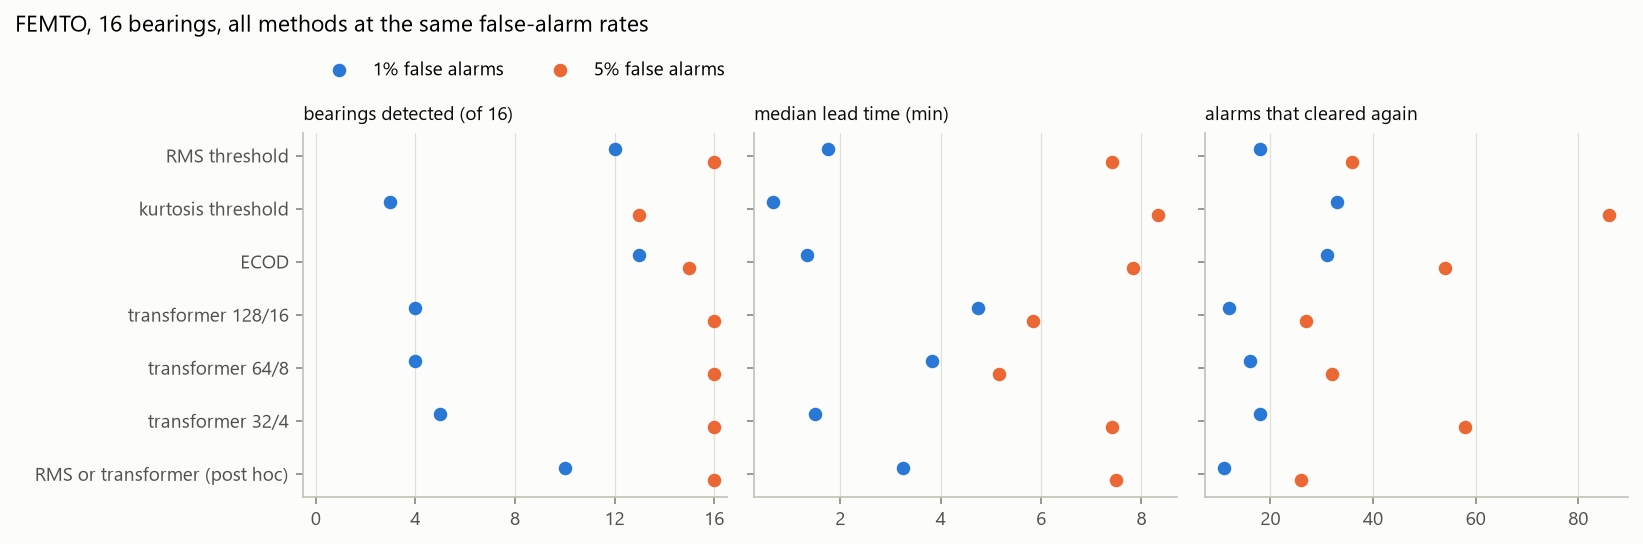
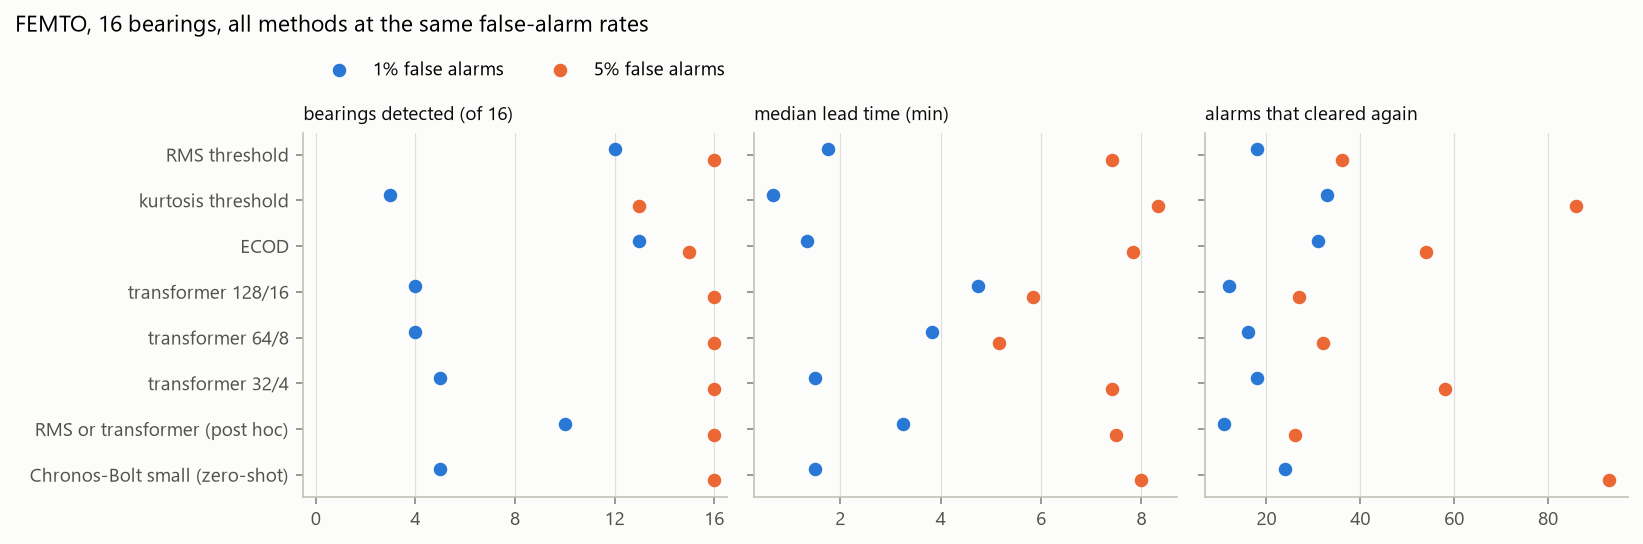
Compare with a zero-shot Chronos-Bolt forecaster
Same protocol, no training on bearings; it behaves much like the small transformer, with more alarms that clear again.

diff --git a/src/bearing_attention/forecaster.py b/src/bearing_attention/forecaster.py
@@ -16,7 +16,61 @@ def windows(series, length):
     return np.lib.stride_tricks.sliding_window_view(series, length, axis=0).transpose(0, 2, 1)
 
 
-class ForecastDetector:
+class ErrorScore:
+    """Turns forecasts into a per-snapshot anomaly score. Subclasses provide
+    `forecast(z)`, `window`, `horizon`, `feature_names` and `channel_scale`."""
+
+    def score(self, z, stop=None):
+        """Log of the mean normalized squared error of every snapshot over all forecasts
+        that predicted it. Uses only earlier snapshots, so it can run online; NaN until
+        the first full window.
+
+        The errors span several orders of magnitude (a transient can be a thousand
+        times the typical error), so the log is taken; alarms only depend on the order
+        of the scores, but on this scale the evaluation's clip never reaches a threshold.
+        """
+        z = z[:stop]
+        n = len(z)
+        scores = np.full(n, np.nan)
+        if n <= self.window:
+            return scores
+        forecasts = self.forecast(z)
+        total, count = np.zeros(n), np.zeros(n)
+        for h in range(self.horizon):
+            t = np.arange(self.window + h, n)
+            error = ((forecasts[: len(t), h] - z[t]) ** 2 / self.channel_scale).mean(axis=1)
+            np.add.at(total, t, error)
+            np.add.at(count, t, 1)
+        seen = count > 0
+        scores[seen] = np.log(total[seen] / count[seen])
+        return scores
+
+    def for_features(self, feature_names):
+        """The same model for another sensor layout (e.g. one accelerometer instead of
+        two). Nothing is refitted: each channel keeps the healthy error scale learned
+        for its feature, averaged over the training axes."""
+        by_feature = {}
+        for name, scale in zip(self.feature_names, self.channel_scale):
+            by_feature.setdefault(name.split("_", 1)[1], []).append(scale)
+        adapted = copy.copy(self)
+        adapted.feature_names = list(feature_names)
+        adapted.channel_scale = np.array([np.mean(by_feature[n.split("_", 1)[1]]) for n in feature_names])
+        return adapted
+
+    def healthy_channel_scale(self, healthy):
+        """Median squared forecast error of every channel over the healthy windows."""
+        errors = []
+        for h in healthy:
+            rows = len(h) - self.window - self.horizon + 1
+            if rows <= 0:
+                continue
+            forecasts = self.forecast(h)
+            targets = windows(h[self.window:], self.horizon)[:rows]
+            errors.append(((forecasts[:rows] - targets) ** 2).reshape(-1, h.shape[1]))
+        return np.median(np.concatenate(errors), axis=0) + 1e-6
+
+
+class ForecastDetector(ErrorScore):
     def __init__(self, name, variant, model_cfg):
         self.name = name
         self.variant = dict(variant)
@@ -78,43 +132,6 @@ class ForecastDetector:
         if not return_attention:
             return torch.cat(outputs).numpy()
         return torch.cat([f for f, _ in outputs]).numpy(), torch.cat([a for _, a in outputs]).numpy()
-
-    def score(self, z, stop=None):
-        """Log of the mean normalized squared error of every snapshot over all forecasts
-        that predicted it. Uses only earlier snapshots, so it can run online; NaN until
-        the first full window.
-
-        The errors span several orders of magnitude (a transient can be a thousand
-        times the typical error), so the log is taken; alarms only depend on the order
-        of the scores, but on this scale the evaluation's clip never reaches a threshold.
-        """
-        z = z[:stop]
-        n = len(z)
-        scores = np.full(n, np.nan)
-        if n <= self.window:
-            return scores
-        forecasts = self.forecast(z)
-        total, count = np.zeros(n), np.zeros(n)
-        for h in range(self.horizon):
-            t = np.arange(self.window + h, n)
-            error = ((forecasts[: len(t), h] - z[t]) ** 2 / self.channel_scale).mean(axis=1)
-            np.add.at(total, t, error)
-            np.add.at(count, t, 1)
-        seen = count > 0
-        scores[seen] = np.log(total[seen] / count[seen])
-        return scores
-
-    def for_features(self, feature_names):
-        """The same model for another sensor layout (e.g. one accelerometer instead of
-        two). Nothing is refitted: each channel keeps the healthy error scale learned
-        for its feature, averaged over the training axes."""
-        by_feature = {}
-        for name, scale in zip(self.feature_names, self.channel_scale):
-            by_feature.setdefault(name.split("_", 1)[1], []).append(scale)
-        adapted = copy.copy(self)
-        adapted.feature_names = list(feature_names)
-        adapted.channel_scale = np.array([np.mean(by_feature[n.split("_", 1)[1]]) for n in feature_names])
-        return adapted
 
     def save(self, path):
         path.parent.mkdir(parents=True, exist_ok=True)

diff --git a/src/bearing_attention/chronos_detector.py b/src/bearing_attention/chronos_detector.py
@@ -1,0 +1,57 @@
+"""Zero-shot comparison: Chronos-Bolt forecasting the same feature series.
+
+Chronos-Bolt (Amazon, chronos-forecasting package, Apache-2.0) is pretrained on a
+large collection of public time series and is used here without any training on
+bearings. Only the typical healthy error of each feature is measured, exactly as
+for the transformer, and the score is built the same way.
+"""
+import hashlib
+
+import numpy as np
+import torch
+
+from bearing_attention.forecaster import ErrorScore, windows
+
+_PIPELINES = {}
+# Forecasts do not depend on the fold, so each record is forecast once and reused
+# by every fit and score of the cross-validation.
+_FORECASTS = {}
+MEDIAN = 4  # index of the 0.5 quantile among Chronos-Bolt's 0.1 ... 0.9 outputs
+
+
+def load_pipeline(model_id):
+    if model_id not in _PIPELINES:
+        from chronos import BaseChronosPipeline
+
+        _PIPELINES[model_id] = BaseChronosPipeline.from_pretrained(
+            model_id, device_map="cpu", torch_dtype=torch.float32)
+    return _PIPELINES[model_id]
+
+
+class ChronosDetector(ErrorScore):
+    def __init__(self, name, window, horizon, model_id, batch_size=1024, pipeline=None):
+        self.name = name
+        self.window, self.horizon = window, horizon
+        self.model_id = model_id
+        self.batch_size = batch_size
+        self.pipeline = pipeline
+
+    def fit(self, healthy, feature_names):
+        self.feature_names = list(feature_names)
+        self.channel_scale = self.healthy_channel_scale(healthy)
+        return self
+
+    def forecast(self, z, return_attention=False):
+        """Median forecasts from every full window of z, in the layout of ForecastDetector.forecast."""
+        z = np.ascontiguousarray(z, dtype=np.float32)
+        key = (self.model_id, self.window, self.horizon, hashlib.sha1(z.tobytes()).hexdigest(), z.shape)
+        if key not in _FORECASTS:
+            pipeline = self.pipeline or load_pipeline(self.model_id)
+            past = windows(z, self.window)[:-1]  # (n_windows, window, channels)
+            n_windows, _, channels = past.shape
+            series = torch.from_numpy(past.transpose(0, 2, 1).reshape(-1, self.window).copy())
+            out = [pipeline.predict(series[i:i + self.batch_size], prediction_length=self.horizon)[:, MEDIAN]
+                   for i in range(0, len(series), self.batch_size)]
+            median = torch.cat(out).numpy() if out else np.empty((0, self.horizon), np.float32)
+            _FORECASTS[key] = median.reshape(n_windows, channels, self.horizon).transpose(0, 2, 1)
+        return _FORECASTS[key]

diff --git a/tests/test_chronos.py b/tests/test_chronos.py
@@ -1,0 +1,54 @@
+import numpy as np
+import pytest
+
+from bearing_attention import chronos_detector
+from bearing_attention.chronos_detector import ChronosDetector
+
+
+class LastValue:
+    """Stand-in for a Chronos-Bolt pipeline: every quantile is the last observed value."""
+
+    def __init__(self):
+        self.calls = 0
+
+    def predict(self, inputs, prediction_length):
+        self.calls += 1
+        return inputs[:, -1:, None].repeat(1, 9, prediction_length)
+
+
+@pytest.fixture(autouse=True)
+def empty_cache():
+    chronos_detector._FORECASTS.clear()
+
+
+def walk(n, channels=2, seed=0):
+    return np.random.default_rng(seed).normal(size=(n, channels)).cumsum(axis=0)
+
+
+def test_forecast_layout_matches_the_transformer():
+    z = walk(50)
+    forecasts = ChronosDetector("c", 16, 4, "fake", pipeline=LastValue()).forecast(z)
+    assert forecasts.shape == (50 - 16, 4, 2)
+    # row s forecasts from the window z[s : s + 16], so its last value is z[s + 15]
+    np.testing.assert_allclose(forecasts[3, :, 1], np.full(4, z[18, 1]), rtol=1e-6)
+
+
+def test_each_record_is_forecast_once():
+    pipeline = LastValue()
+    detector = ChronosDetector("c", 16, 4, "fake", batch_size=1000, pipeline=pipeline)
+    z = walk(60)
+    detector.fit([z[:40], walk(10)], ["a_rms", "a_peak"])  # the second segment is too short and skipped
+    calls = pipeline.calls
+    detector.forecast(z[:40])
+    assert pipeline.calls == calls
+
+
+def test_score_is_causal_and_flags_a_jump():
+    detector = ChronosDetector("c", 16, 4, "fake", pipeline=LastValue()).fit([walk(200, seed=1)], ["a_x", "b_x"])
+    record = walk(120, seed=2)
+    record[100:] += 50
+    score = detector.score(record)
+    np.testing.assert_allclose(detector.score(record, stop=90), score[:90])
+    assert np.isnan(score[:16]).all()
+    assert np.nanmax(score[100:104]) > np.nanmax(score[20:95]) + np.log(10)
+

diff --git a/scripts/transfer_ims.py b/scripts/transfer_ims.py
@@ -13,6 +13,7 @@ import pandas as pd
 
 from bearing_attention import evaluation, features
 from bearing_attention.baselines import ECODDetector, FeatureThreshold
+from bearing_attention.chronos_detector import ChronosDetector
 from bearing_attention.config import load_config
 from bearing_attention.forecaster import ForecastDetector, LevelOrSurprise
 from bearing_attention.plotting import AQUA, BLUE, INK_SECONDARY, METHOD_LABELS, MUTED, ORANGE, SHADE, apply_style, plt
@@ -46,6 +47,9 @@ def detectors_from_femto(cfg, feature_names):
         detectors[f"transformer_{name}"] = ForecastDetector.load(saved).for_features(feature_names)
     detectors["rms_or_transformer"] = LevelOrSurprise(
         "rms_or_transformer", rms, detectors["transformer_w128_p16"]).scale_parts(healthy)
+    ch = cfg["chronos"]
+    detectors["chronos_bolt_small"] = ChronosDetector(
+        "chronos_bolt_small", ch["window"], ch["horizon"], ch["model"], ch["batch_size"]).fit(healthy, feature_names)
     return detectors
 
 
@@ -132,6 +136,7 @@ def main():
     args = parser.parse_args()
 
     logging.basicConfig(level=logging.INFO, format="%(asctime)s %(message)s", datefmt="%H:%M:%S")
+    logging.getLogger("httpx").setLevel(logging.WARNING)  # model downloads from Hugging Face
     apply_style()
     cfg = load_config(args.config)
     test = cfg["datasets"]["ims"]["test"]

diff --git a/scripts/evaluate.py b/scripts/evaluate.py
@@ -6,6 +6,7 @@ from pathlib import Path
 import pandas as pd
 
 from bearing_attention import baselines, evaluation, features, forecaster
+from bearing_attention.chronos_detector import ChronosDetector
 from bearing_attention.config import load_config
 
 log = logging.getLogger("evaluate")
@@ -66,10 +67,14 @@ def main():
     args = parser.parse_args()
 
     logging.basicConfig(level=logging.INFO, format="%(asctime)s %(message)s", datefmt="%H:%M:%S")
+    logging.getLogger("httpx").setLevel(logging.WARNING)  # model downloads from Hugging Face
     cfg = load_config(args.config)
     detectors = {**baselines.DETECTORS, **forecaster.variants(cfg)}
     detectors["rms_or_transformer"] = lambda: forecaster.LevelOrSurprise(
         "rms_or_transformer", baselines.DETECTORS["rms"](), detectors["transformer_w128_p16"]())
+    ch = cfg["chronos"]
+    detectors["chronos_bolt_small"] = lambda: ChronosDetector(
+        "chronos_bolt_small", ch["window"], ch["horizon"], ch["model"], ch["batch_size"])
     unknown = set(args.methods) - set(detectors)
     if unknown:
         parser.error(f"unknown methods {sorted(unknown)}; choose from {sorted(detectors)}")

diff --git a/src/bearing_attention/plotting.py b/src/bearing_attention/plotting.py
@@ -18,6 +18,7 @@ METHOD_LABELS = {
     "transformer_w64_p8": "transformer 64/8",
     "transformer_w32_p4": "transformer 32/4",
     "rms_or_transformer": "RMS or transformer (post hoc)",
+    "chronos_bolt_small": "Chronos-Bolt small (zero-shot)",
 }
 
 DIVERGING = LinearSegmentedColormap.from_list(

diff --git a/README.md b/README.md
@@ -6,7 +6,7 @@ Demo: https://bearing-attention.streamlit.app
 
 I trained a small PatchTST-style transformer to forecast vibration features of healthy bearings and used its forecast error as an anomaly score. I compared it with an RMS threshold, a kurtosis threshold and ECOD on the FEMTO/PRONOSTIA run-to-failure data, with every method set to the same false-alarm rate, and then applied the FEMTO-trained model to the NASA IMS data without retraining.
 
-The short answer is no, not on this data. At a strict false-alarm rate (1 % of healthy time in alarm) the transformer catches 4 of 16 FEMTO failures before the end, against 12 for RMS and 13 for ECOD. At 5 % RMS, ECOD and the transformer catch 15 or 16 of the 16 failures, a few minutes ahead, and the transformer produces fewer alarms that switch themselves off again than ECOD. It reacts to changes in how a bearing vibrates rather than to slow growth, which helps on some bearings and hurts on others. On IMS the FEMTO model finds the failure about two days ahead; RMS and ECOD find it about three days ahead.
+The short answer is no, not on this data. At a strict false-alarm rate (1 % of healthy time in alarm) the transformer catches 4 of 16 FEMTO failures before the end, against 12 for RMS and 13 for ECOD. At 5 % RMS, ECOD and the transformer catch 15 or 16 of the 16 failures, a few minutes ahead, and the transformer produces fewer alarms that switch themselves off again than ECOD. It reacts to changes in how a bearing vibrates rather than to slow growth, which helps on some bearings and hurts on others. On IMS the FEMTO model finds the failure about two days ahead; RMS and ECOD find it about three days ahead. A pretrained Chronos-Bolt model used without any training on bearings behaves much like my small transformer, only noisier, so the limit seems to be the forecast-error approach itself rather than the size of the model.
 
 ![FEMTO comparison](results/figures/femto_comparison.png)
 
@@ -82,6 +82,7 @@ Median lead time over the detected bearings; "cleared" counts alarms after the h
 | transformer 64/8 | 4/16, 3.8 min | 16/16, 5.2 min | 32 | 0.81 |
 | transformer 32/4 | 5/16, 1.5 min | 16/16, 7.4 min | 58 | 0.81 |
 | RMS or transformer (added after the first results) | 10/16, 3.3 min | 16/16, 7.5 min | 26 | 0.83 |
+| Chronos-Bolt small, zero-shot | 5/16, 1.5 min | 16/16, 8.0 min | 93 | 0.79 |
 
 What I read from it:
 
@@ -106,6 +107,7 @@ All detectors are built on FEMTO only and applied to IMS test 2 without retraini
 | transformer 64/8 | 56.0 | 82.5 | 5 |
 | transformer 32/4 | 46.7 | 74.2 | 2 |
 | RMS or transformer | 75.8 | 96.3 | 4 |
+| Chronos-Bolt small, zero-shot | 46.2 | 74.2 | 2 |
 
 (bearing 1, 1 % false alarms)
 
@@ -114,6 +116,10 @@ All detectors are built on FEMTO only and applied to IMS test 2 without retraini
 Every method finds the failure of bearing 1 days ahead, because on IMS the damage grows over days rather than minutes. RMS and ECOD hold their alarm from the moment RMS starts rising (about day 3.65). The transformer reacts at the same time but its alarm clears on the plateaus; its lasting alarm only starts with the jump at day 4.83. It also has a few more short alarms. At the end of the test bearings 2 to 4 are in alarm for every method; bearing 4 steps up at the exact moment bearing 1 does, so at least part of it is vibration from bearing 1 carried through the shaft. I do not count those as false alarms but I cannot tell them apart from wear of those bearings either.
 
 Windows are defined in snapshots, so they mean very different physical times: 128 snapshots are 21 min on FEMTO and 21 h on IMS, the smoothing covers 50 s or 50 min. In snapshots the two datasets are comparable (FEMTO lives of 230 to 2803 snapshots, the IMS test 982, of which bearing 1 spends about 460 degrading), so the model sees a similar share of a life. What one step means is not the same: consecutive FEMTO snapshots mostly differ by estimation noise (0.1 s of signal), consecutive IMS snapshots by what happened in 10 minutes of running, with less noise (1 s of signal). The per-bearing normalization puts both on the same scale, not on the same physics. Other differences: ball bearings against double-row roller bearings, 1500 to 1800 rpm against 2000 rpm, 4 to 5 kN against about 27 kN, different sensors and sampling rates, two accelerometers against one, four bearings sharing a shaft, and a single IMS test with a single failure. The transfer works in the sense that the model finds the failure, but it is one example.
+
+### A pretrained forecaster for comparison
+
+To see whether the weak spots come from my small model or from the approach, I ran Chronos-Bolt small (a 48M-parameter forecaster pretrained by Amazon on a large collection of public time series, from the `chronos-forecasting` package, Apache-2.0) through exactly the same protocol, zero-shot: same 128-snapshot window and 16-snapshot horizon, the median forecast in place of mine, and only the typical healthy error of each feature measured on the training bearings. On FEMTO it detects 5 of 16 bearings at 1 % (mine 4) and all 16 at 5 % with a median lead of 8.0 min (mine 5.8), but with 93 alarms that cleared again against 27. On IMS its lasting alarm starts 46.2 h before the end (mine 47.7). A model more than 500 times larger that has seen far more data behaves much the same, so the limits above belong to "anomaly = forecast error" on these features, not to the size or the training data of the network. My model, trained in a minute on healthy bearings only, is the calmer of the two.
 
 ### Things I got wrong on the way
 
@@ -148,9 +154,10 @@ python scripts/plot_features.py              # sanity-check figures
 python scripts/evaluate.py rms kurtosis ecod                                         # ~5 min
 python scripts/evaluate.py transformer_w128_p16 transformer_w64_p8 transformer_w32_p4 # ~50 min on 6 CPU cores
 python scripts/evaluate.py rms_or_transformer                                         # ~12 min
+python scripts/evaluate.py chronos_bolt_small                                         # ~35 min, downloads ~190 MB
 python scripts/plot_comparison.py
 python scripts/train_forecaster.py           # models trained on all healthy FEMTO data, used for IMS
-python scripts/transfer_ims.py               # ~1 min
+python scripts/transfer_ims.py               # ~7 min with Chronos-Bolt
 
 python scripts/export_demo.py                # app/data
 python -m pytest -q
@@ -186,6 +193,7 @@ tests/                      pytest; tests that need the downloaded data are skip
 ## References
 
 - Y. Nie, N. H. Nguyen, P. Sinthong, J. Kalagnanam. A Time Series is Worth 64 Words: Long-term Forecasting with Transformers. ICLR 2023. The idea behind the model; the code here is my own.
+- A. F. Ansari et al. Chronos: Learning the Language of Time Series. TMLR, 2024. Chronos-Bolt comes from the same authors' `chronos-forecasting` package (Apache-2.0).
 - Z. Li, Y. Zhao, X. Hu, N. Botta, C. Ionescu, G. H. Chen. ECOD: Unsupervised Outlier Detection Using Empirical Cumulative Distribution Functions. IEEE TKDE, 2022.
 - Y. Zhao, Z. Nasrullah, Z. Li. PyOD: A Python Toolbox for Scalable Outlier Detection. JMLR, 2019 (BSD 2-Clause license).
 - IEEE PHM 2012 Prognostic Challenge: Outline, Experiments, Scoring of Results, Winners (operating conditions, bearing geometry and actual RULs of the test bearings).
